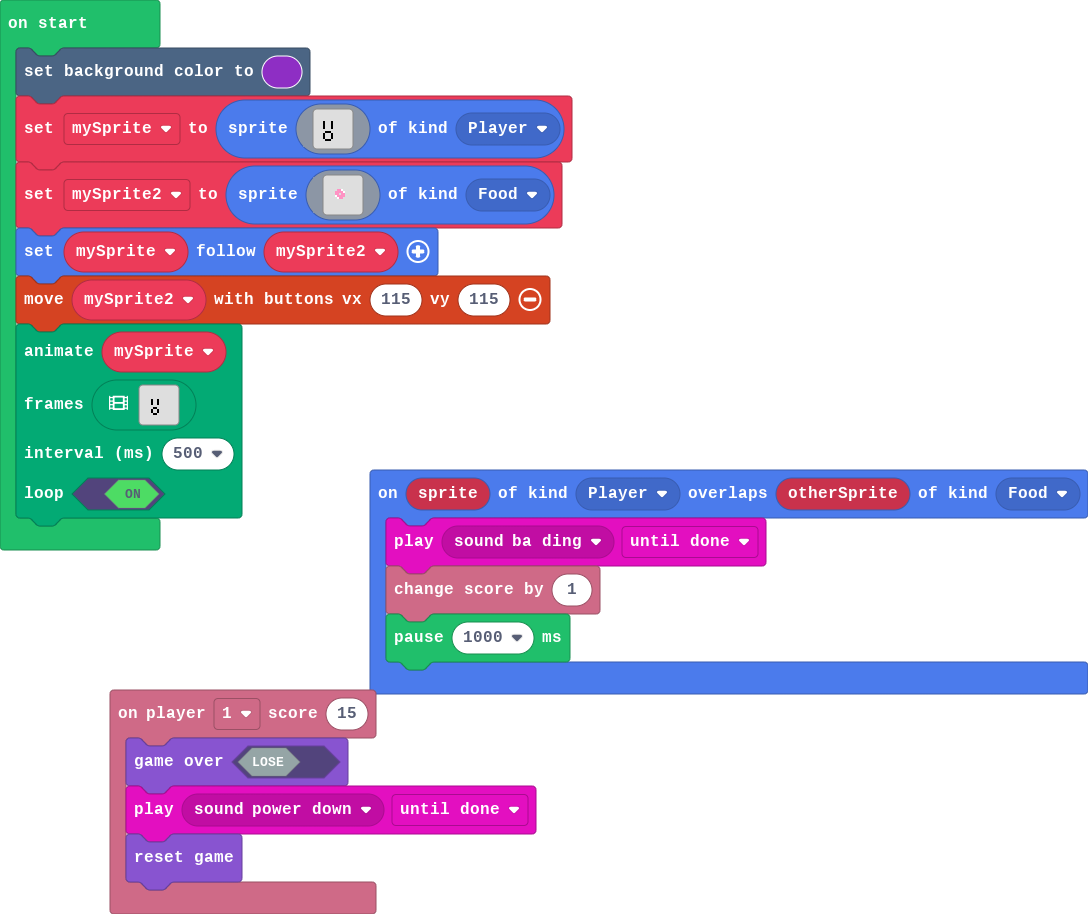
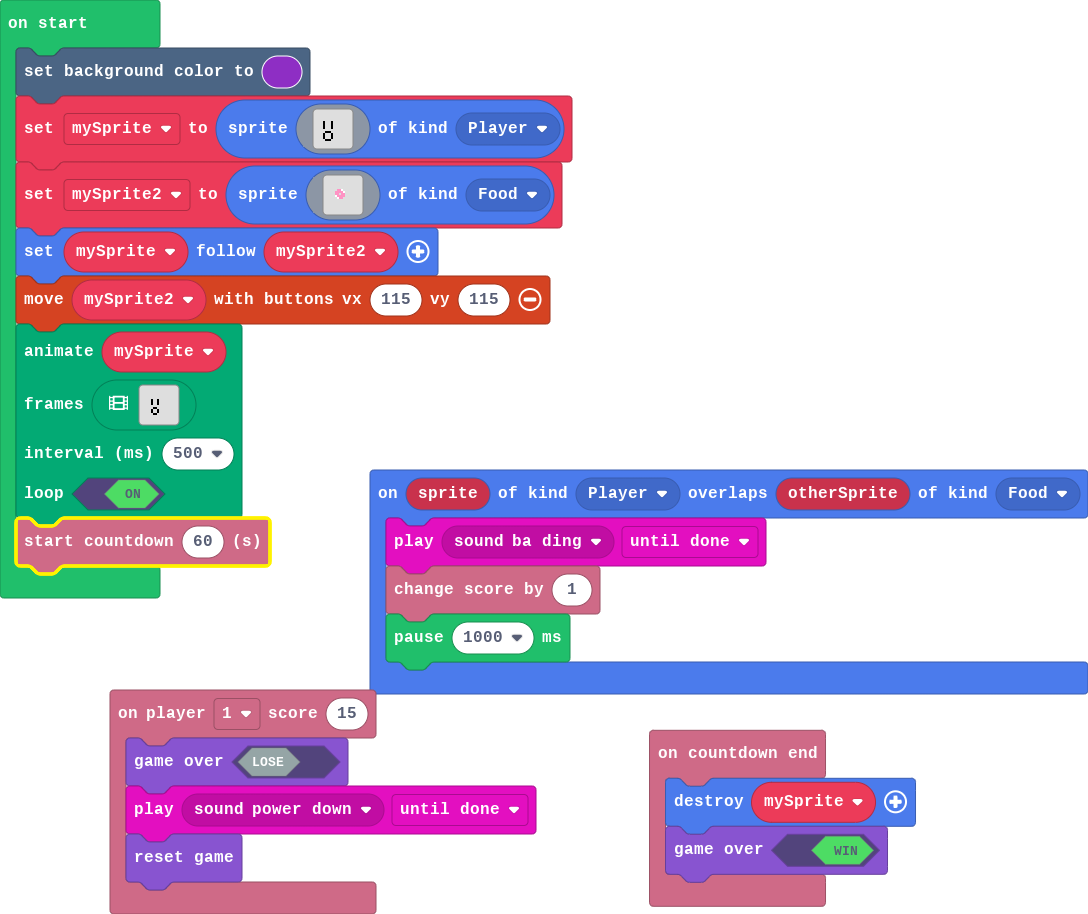
Update main.blocks, main.ts

Changed region(s): [[0.5938, 0.7965, 0.8438, 1.0], [0.0, 0.5514, 0.25, 0.674]]

diff --git a/main.ts b/main.ts
@@ -3,13 +3,18 @@ info.player1.onScore(15, function () {
     music.play(music.melodyPlayable(music.powerDown), music.PlaybackMode.UntilDone)
     game.reset()
 })
+info.onCountdownEnd(function () {
+    sprites.destroy(mySprite)
+    game.gameOver(true)
+})
 sprites.onOverlap(SpriteKind.Player, SpriteKind.Food, function (sprite, otherSprite) {
     music.play(music.melodyPlayable(music.baDing), music.PlaybackMode.UntilDone)
     info.changeScoreBy(1)
     pause(1000)
 })
+let mySprite: Sprite = null
 scene.setBackgroundColor(10)
-let mySprite = sprites.create(img`
+mySprite = sprites.create(img`
     . . . . . . . . . . . . . . . . 
     . . . . . . . . . . . . . . . . 
     . . . . . . . . . . . . . . . . 
@@ -87,3 +92,4 @@ mySprite,
 500,
 true
 )
+info.startCountdown(60)
